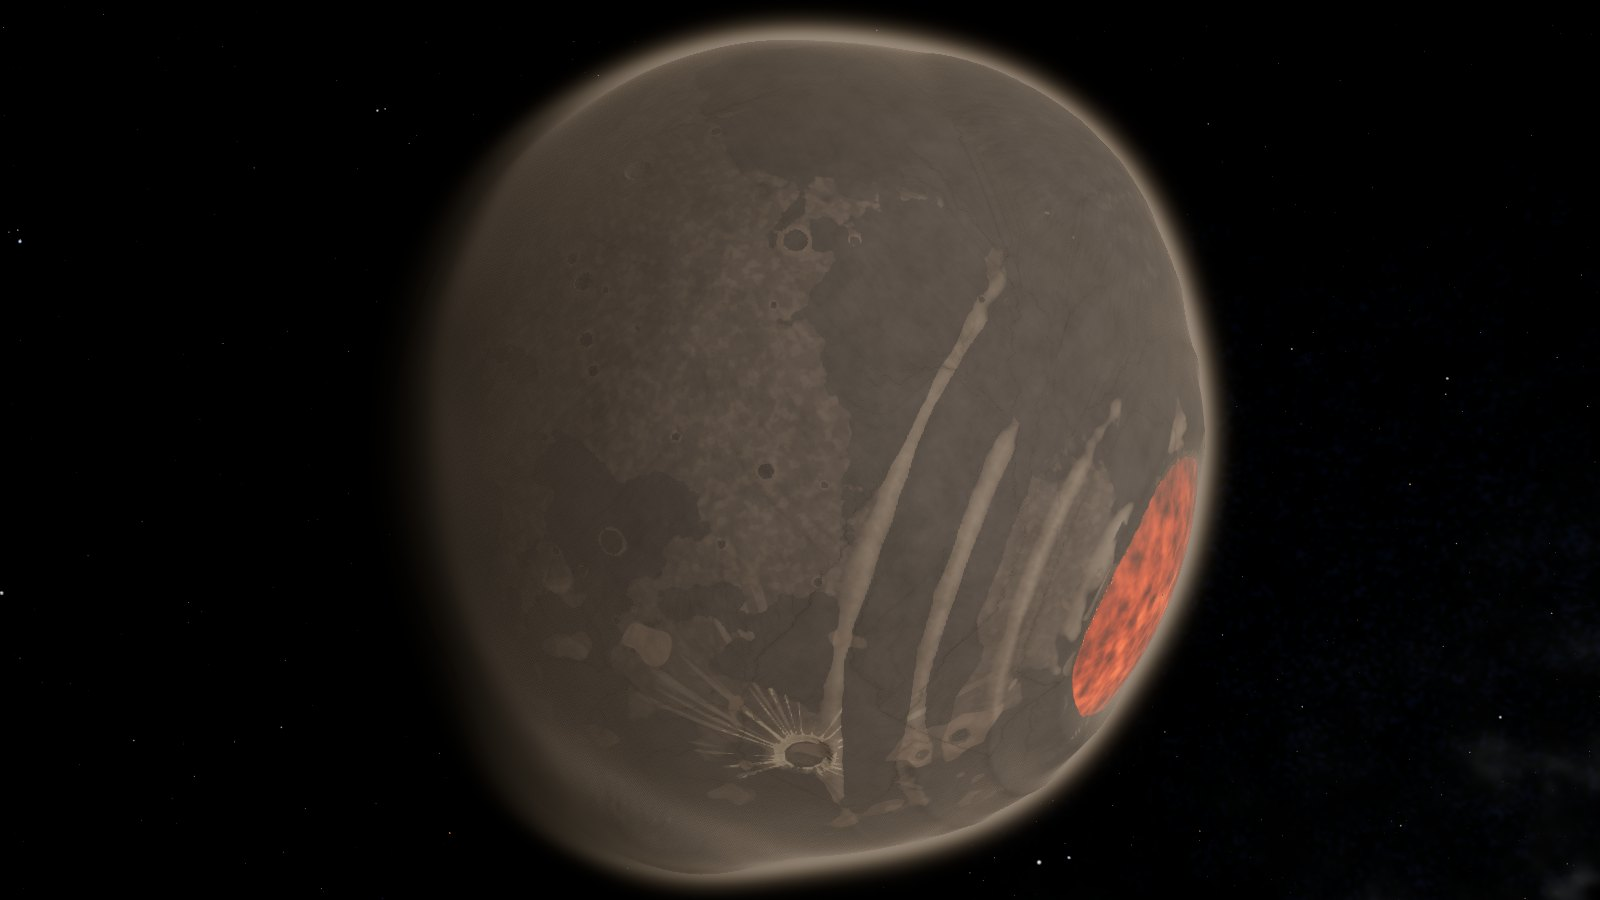
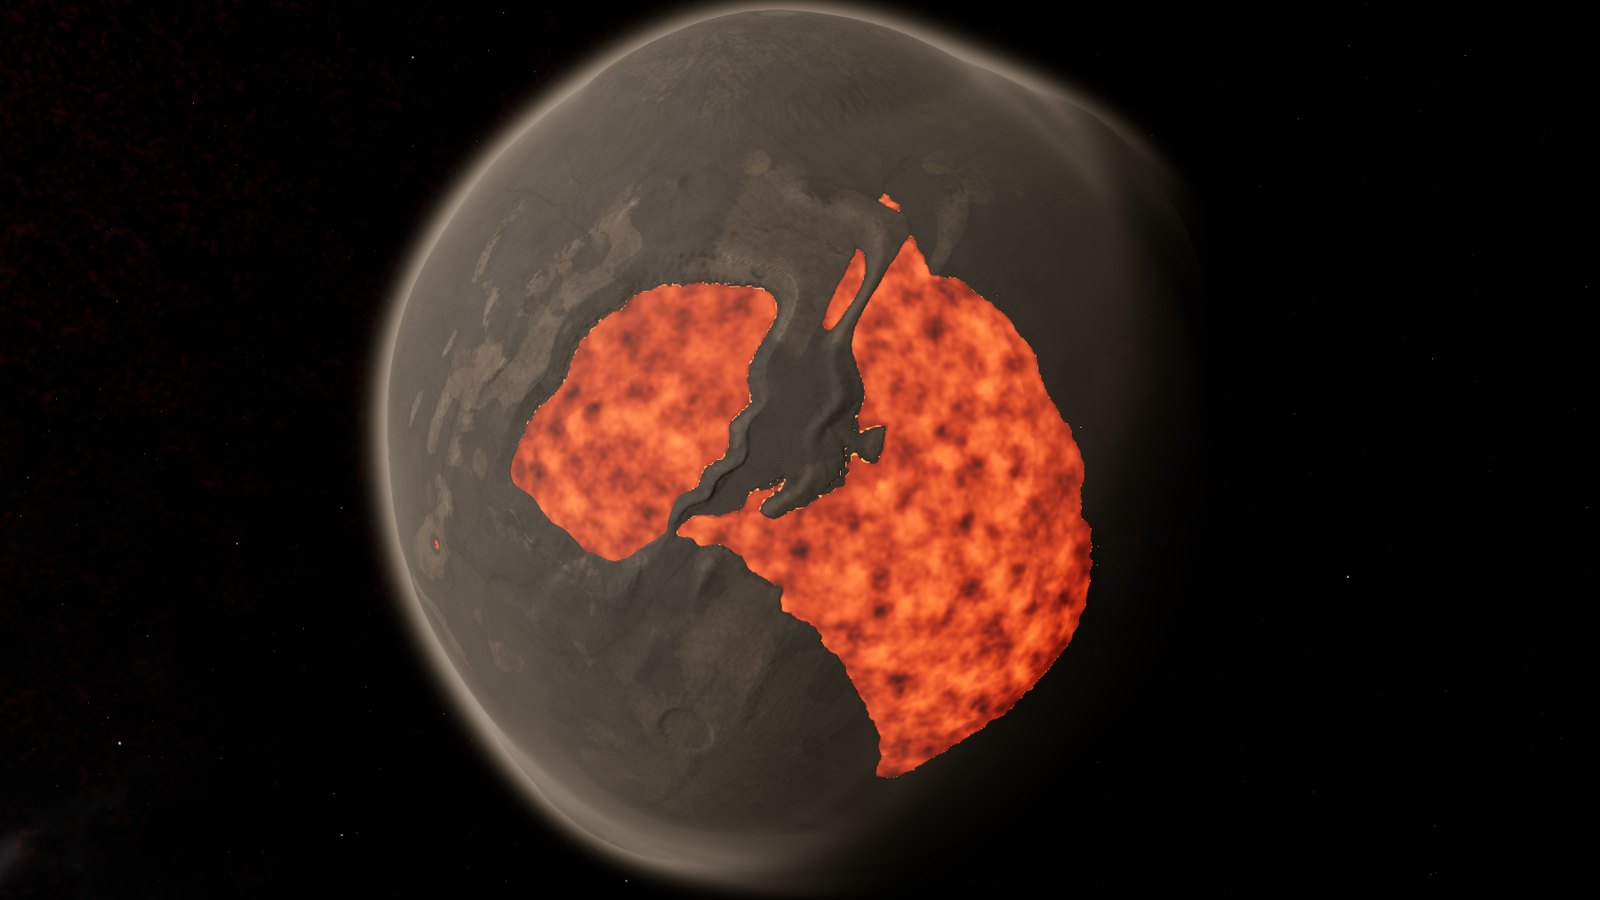
README: new screenshots (side-lit), basins/landmarks/HQ volumetrics/tour; worklog for the touch-ups

diff --git a/README.md b/README.md
@@ -30,6 +30,9 @@ Each world starts as a formation history, not as noise:
 There are nine archetypes: Rust, Cinder, Grey moon, Ice shell, Old ice, Sulfur, Basalt, Cryovolcanic and Wild.
 - **Drama** scales how wild the relief gets.
 - **Distortion** turns small bodies into triaxial or lumpy "potatoes". The figure is clamped at ±24.5% of the radius.
+- Giant basins roll their own impact story: oblique or round, central peak, peak ring, flat or bowl floor, 0–4 broken
+  rings and age wear (`basinOblique`, `basinRings`, `basinAge`).
+- The planner names the big features (basins, volcanoes, canyons, rises, chaos, rayed craters, polar caps).
 
 The generator runs in a Web Worker pool in the browser. It also runs in Node from the CLI.
 
@@ -45,6 +48,8 @@ The generator runs in a Web Worker pool in the browser. It also runs in Node fro
 - **Light:** heightmap ray-marched cast shadows, cavity AO baked on the CPU and planetshine fill from the parent giant,
   so the night side is not pitch black.
 - **Atmosphere:** a Rayleigh/Mie post pass plus a low-altitude haze march.
+  - **HQ volumetrics** (on by default): a sun shadow-height map shades the dust and haze behind terrain, so peaks and
+    canyon walls throw long shadow shafts at low sun. "Dust shafts" stretches them.
   - The air follows a smoothed map of the body's figure, so lumpy worlds keep their haze on the ground, not in space.
   - Density and haze scale with surface pressure: a faint hint on airless moons, dusty horizons on thin-air worlds.
 - **Surfaces:** glowing lava lakes and calderas, plus ice-shell and lava "sea" modes.
@@ -53,6 +58,10 @@ The generator runs in a Web Worker pool in the browser. It also runs in Node fro
 - While a world forges, a faceted wireframe hologram blinks and fills in with progress. There is no loading screen.
 - Bulk facts decode into the HUD one by one, like scan results.
 - The formation history plays as quiet captions along the bottom of the screen.
+- Named landmark labels sit on the globe from orbit and fade out as you descend.
+- **Tour** flies over the main landmarks, along the terminator and low across a lit feature, then climbs to the night
+  side for a crescent shot with the star rising past the limb. Any drag or scroll stops it.
+- Switching worlds pulls the camera back to the opening view while the hologram plays.
 - Generated worlds are cached in IndexedDB (6 most recent), keyed by the parameters and a hash of the generator source.
   A cached world comes back in about 0.1 s instead of about 3 s.
 
@@ -60,17 +69,20 @@ The generator runs in a Web Worker pool in the browser. It also runs in Node fro
 
 | Input | Action |
 |---|---|
-| Drag | Orbit |
+| Drag | Orbit (throw it and it drifts) |
 | Wheel | Zoom (exponential, terrain-aware) |
 | Right-drag / Shift-drag | Heading and pitch; the view tilts toward the horizon as you descend |
 | `R` | New seed |
 | `H` | Hide UI (for screenshots) |
 | `T` | Toggle captions |
+| `L` | Toggle landmark labels |
+| `P` | Start or stop the tour |
 | `0`–`9` | Debug views: lit, albedo, normals, height, splat, geologic map, temperature, volatiles, flow, cube faces |
 
 - The archetype buttons along the top pick an archetype.
 - The side panel exposes every generator parameter (with live regeneration), plus look, landform detail style,
-  atmosphere, light, post, cache and debug settings.
+  atmosphere, light, post, cache and debug settings. Parameters left on AUTO show the value the generator picked,
+  dimmed, until you move them.
 - **Export** writes a `.planet` file for engine import tests: a JSON header plus raw face arrays
   (see `src/app/export.ts`).
 

diff --git a/WORKLOG.md b/WORKLOG.md
@@ -91,3 +91,42 @@ Newest entries at the bottom. Times are local.
   - Cloudflare assets-only Worker at planet-forge.ioupg.com, through the `cf` CLI. `DEPLOY_TARGET=cloudflare`
     switches the Vite base to `/` and enables `@cloudflare/vite-plugin`.
   - The README was rewritten with demo links and screenshots.
+
+## 2026-10-28 afternoon — touch-ups (branch `touchups`, 10 user items, plan in `docs/plan-touchups.md`)
+- **Camera:** pan speed comes from the ground distance at screen centre (about 10x faster low down), with throw
+  inertia (τ 0.7 s). `flyTo` (ease in-out, log altitude) pulls the view back to the opening framing while a new world
+  forges.
+- **Materials:**
+  - A layer enters the top 3 at zero weight (no pops).
+  - Splat edges are ragged (fbm) and blurred 3x3 in the generator, plus a light albedo-harmony pull.
+  - Detail octaves get a long-axis Nyquist fade and per-hex-cell brightness jitter.
+  - Far away the height-blend window widens (0.25 → 0.35) instead of falling back to plain weights. The first version
+    used plain weights and turned Sulfur's dark flows grey from orbit; caught against master in a side-by-side worktree.
+- **Relief normal** comes from a baked, mipmapped RGBA16F height-gradient texture (no per-texel facets, no orbit
+  aliasing). Rift walls are never narrower than 1.6 texels.
+- **AUTO params** show the value the generator resolved, dimmed. Tweakpane snaps on refresh, so a change within half a
+  step counts as a resync, not a pin.
+- **Basins** (seeds changed, user OK'd): oblique/elongated with butterfly ejecta, scalloped rims, peak / peak-ring /
+  flat / bowl floors, 0–4 broken rings, age wear. Antipodal chaos rolls at 60%. New `basinOblique`, `basinRings` and
+  `basinAge` knobs.
+- **Landmarks:** the planner names up to 16 POIs (basins, volcanoes, canyons, rises, chaos, rayed craters, caps).
+  Labels fade by zoom and limb and are decluttered by rank. `L` toggles them.
+- **HQ volumetrics:**
+  - A 3x2 face atlas (512² per face, RG16F) stores the height where sunlight starts and the shadow's lift above the
+    ground. It is rebuilt only when the sun or the relief changes: 9 rebuilds a second under the day cycle with no fps
+    change.
+  - The haze march (48 steps in HQ) and the low Mie dust test against it.
+  - "Dust shafts" (default 3) stretches the shadow volumes upward. Physical shadows on gentle worlds are only a few km
+    tall and barely show; stretched, a canyon rim throws a long dark wedge at low sun. Lit ground keeps zero lift, so
+    shafts still start where the ground shadows do.
+  - Cost on a 1080 Ti at 1800x1012: low altitude 66 → 56 fps, none from orbit. On by default.
+  - Debug aid: `forge.state.hqDebug` = 1 shows the shadow-map verdict on the ground (matches the terrain's own
+    shadows), 2 shows the haze glow only.
+- **Tour** (button / `P`):
+  - Orbit pass over the lit landmarks, with captions on arrival.
+  - Terminator view, aimed from the horizon dip.
+  - Cross-lit low flyby. Straight down-sun went black behind volcano flanks.
+  - Climb over the night side to a crescent shot: dot(c,S) = -cos(asin(R/D) + ε), with ε drifting from -5° to +0.15°
+    so the star rises past the limb.
+  - Any input cancels it; auto-rotate and labels are restored afterwards.
+- README screenshots retaken side-lit (65° phase). Basalt is now shot from the lava-sea side.
